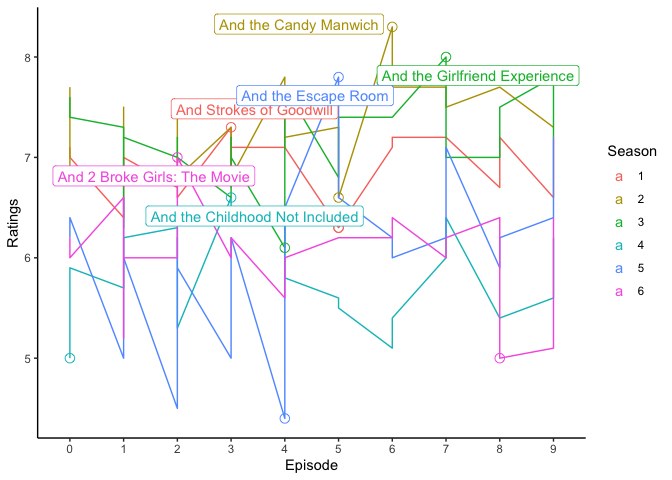
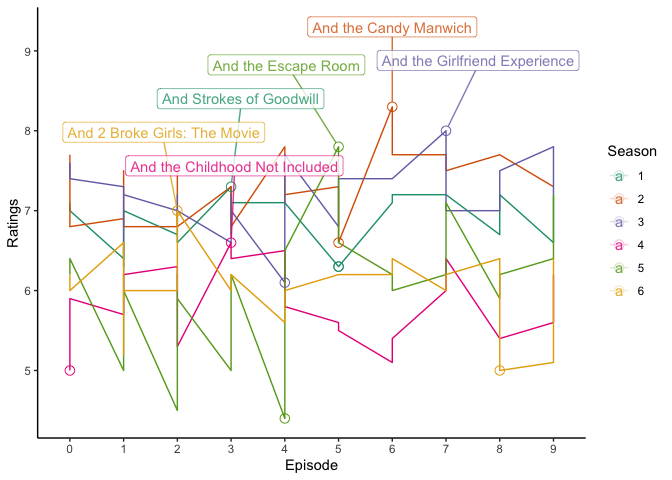
newsolution

diff --git a/Projects/caoman199711/SolutionforMannew.md b/Projects/caoman199711/SolutionforMannew.md
@@ -77,8 +77,10 @@
                        data=Highest,
                        box.padding= 0.35, 
                       point.padding = 0.5,
-                      segment.color = 'grey50') +
-      theme_classic()
+                      nudge_y = 1, alpha = 0.8) +
+      theme_classic() +
+      scale_colour_brewer(palette = "Dark2")
+                     
 
 
 
